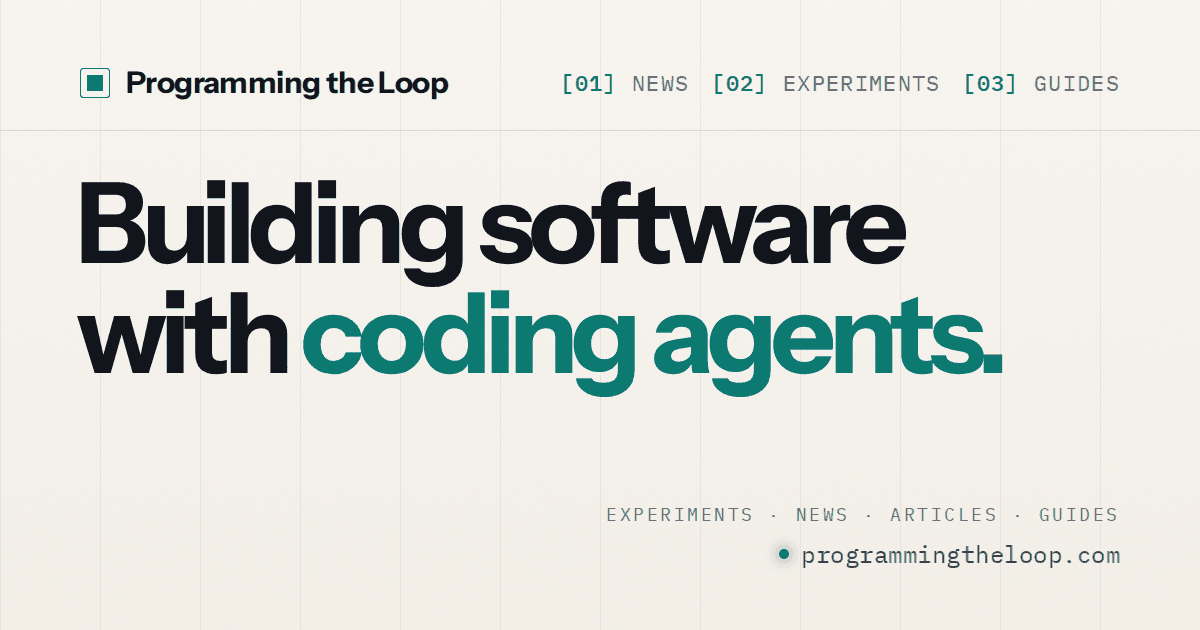
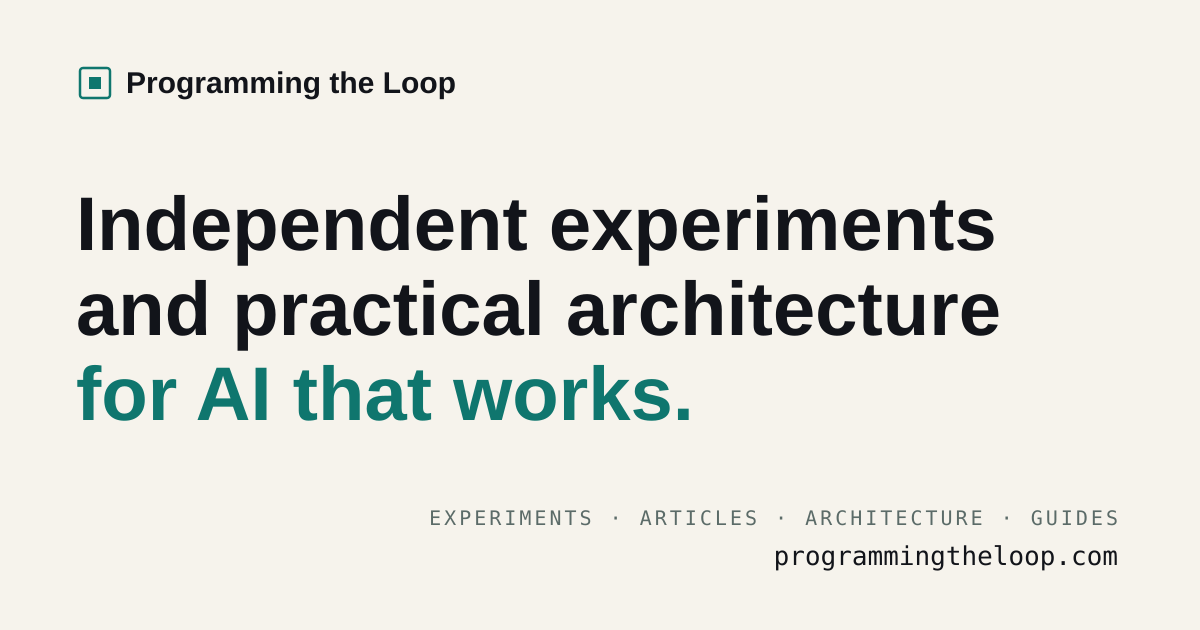
Broaden the site promise: independent experiments and practical architecture for AI systems (#102)
Home h1, audience line, intro, site description, share image and alt text no
longer say the site is only about coding agents. Book title unchanged.

Claude-Session: https://claude.ai/code/session_01Hj6qNd1Kf9Co6xSycBr6zH

diff --git a/src/site.ts b/src/site.ts
@@ -5,7 +5,7 @@ export const SITE_AUTHOR = 'Garry Meaburn';
 /** X handle for twitter:site / twitter:creator (leading @). */
 export const SITE_TWITTER = '@Mav1972';
 export const SITE_DESCRIPTION =
-  "Practical thinking on AI, software engineering, architecture and the tools we build with. Experiments, projects and guides.";
+  "Independent experiments and practical architecture for building AI systems that actually work. Method and limits published.";
 
 /** Base path for the Programming the Loop multi-page guide. */
 export const PTL_GUIDE_HREF = '/guides/programming-the-loop/';
@@ -25,7 +25,7 @@ export const PDF_PATH = '/downloads/Programming-the-Loop-1st-edition.pdf';
 /** Default link-preview image (1200×630 typographic, light theme). */
 export const SITE_OG_IMAGE = `${SITE_URL}/og/default.png`;
 export const SITE_OG_IMAGE_ALT =
-  'Programming the Loop: Building software with coding agents';
+  'Programming the Loop: Independent experiments and practical architecture for building AI systems that actually work';
 /** @deprecated Use SITE_OG_IMAGE; kept as an alias so older imports keep working. */
 export const BOOK_OG_IMAGE = SITE_OG_IMAGE;
 
